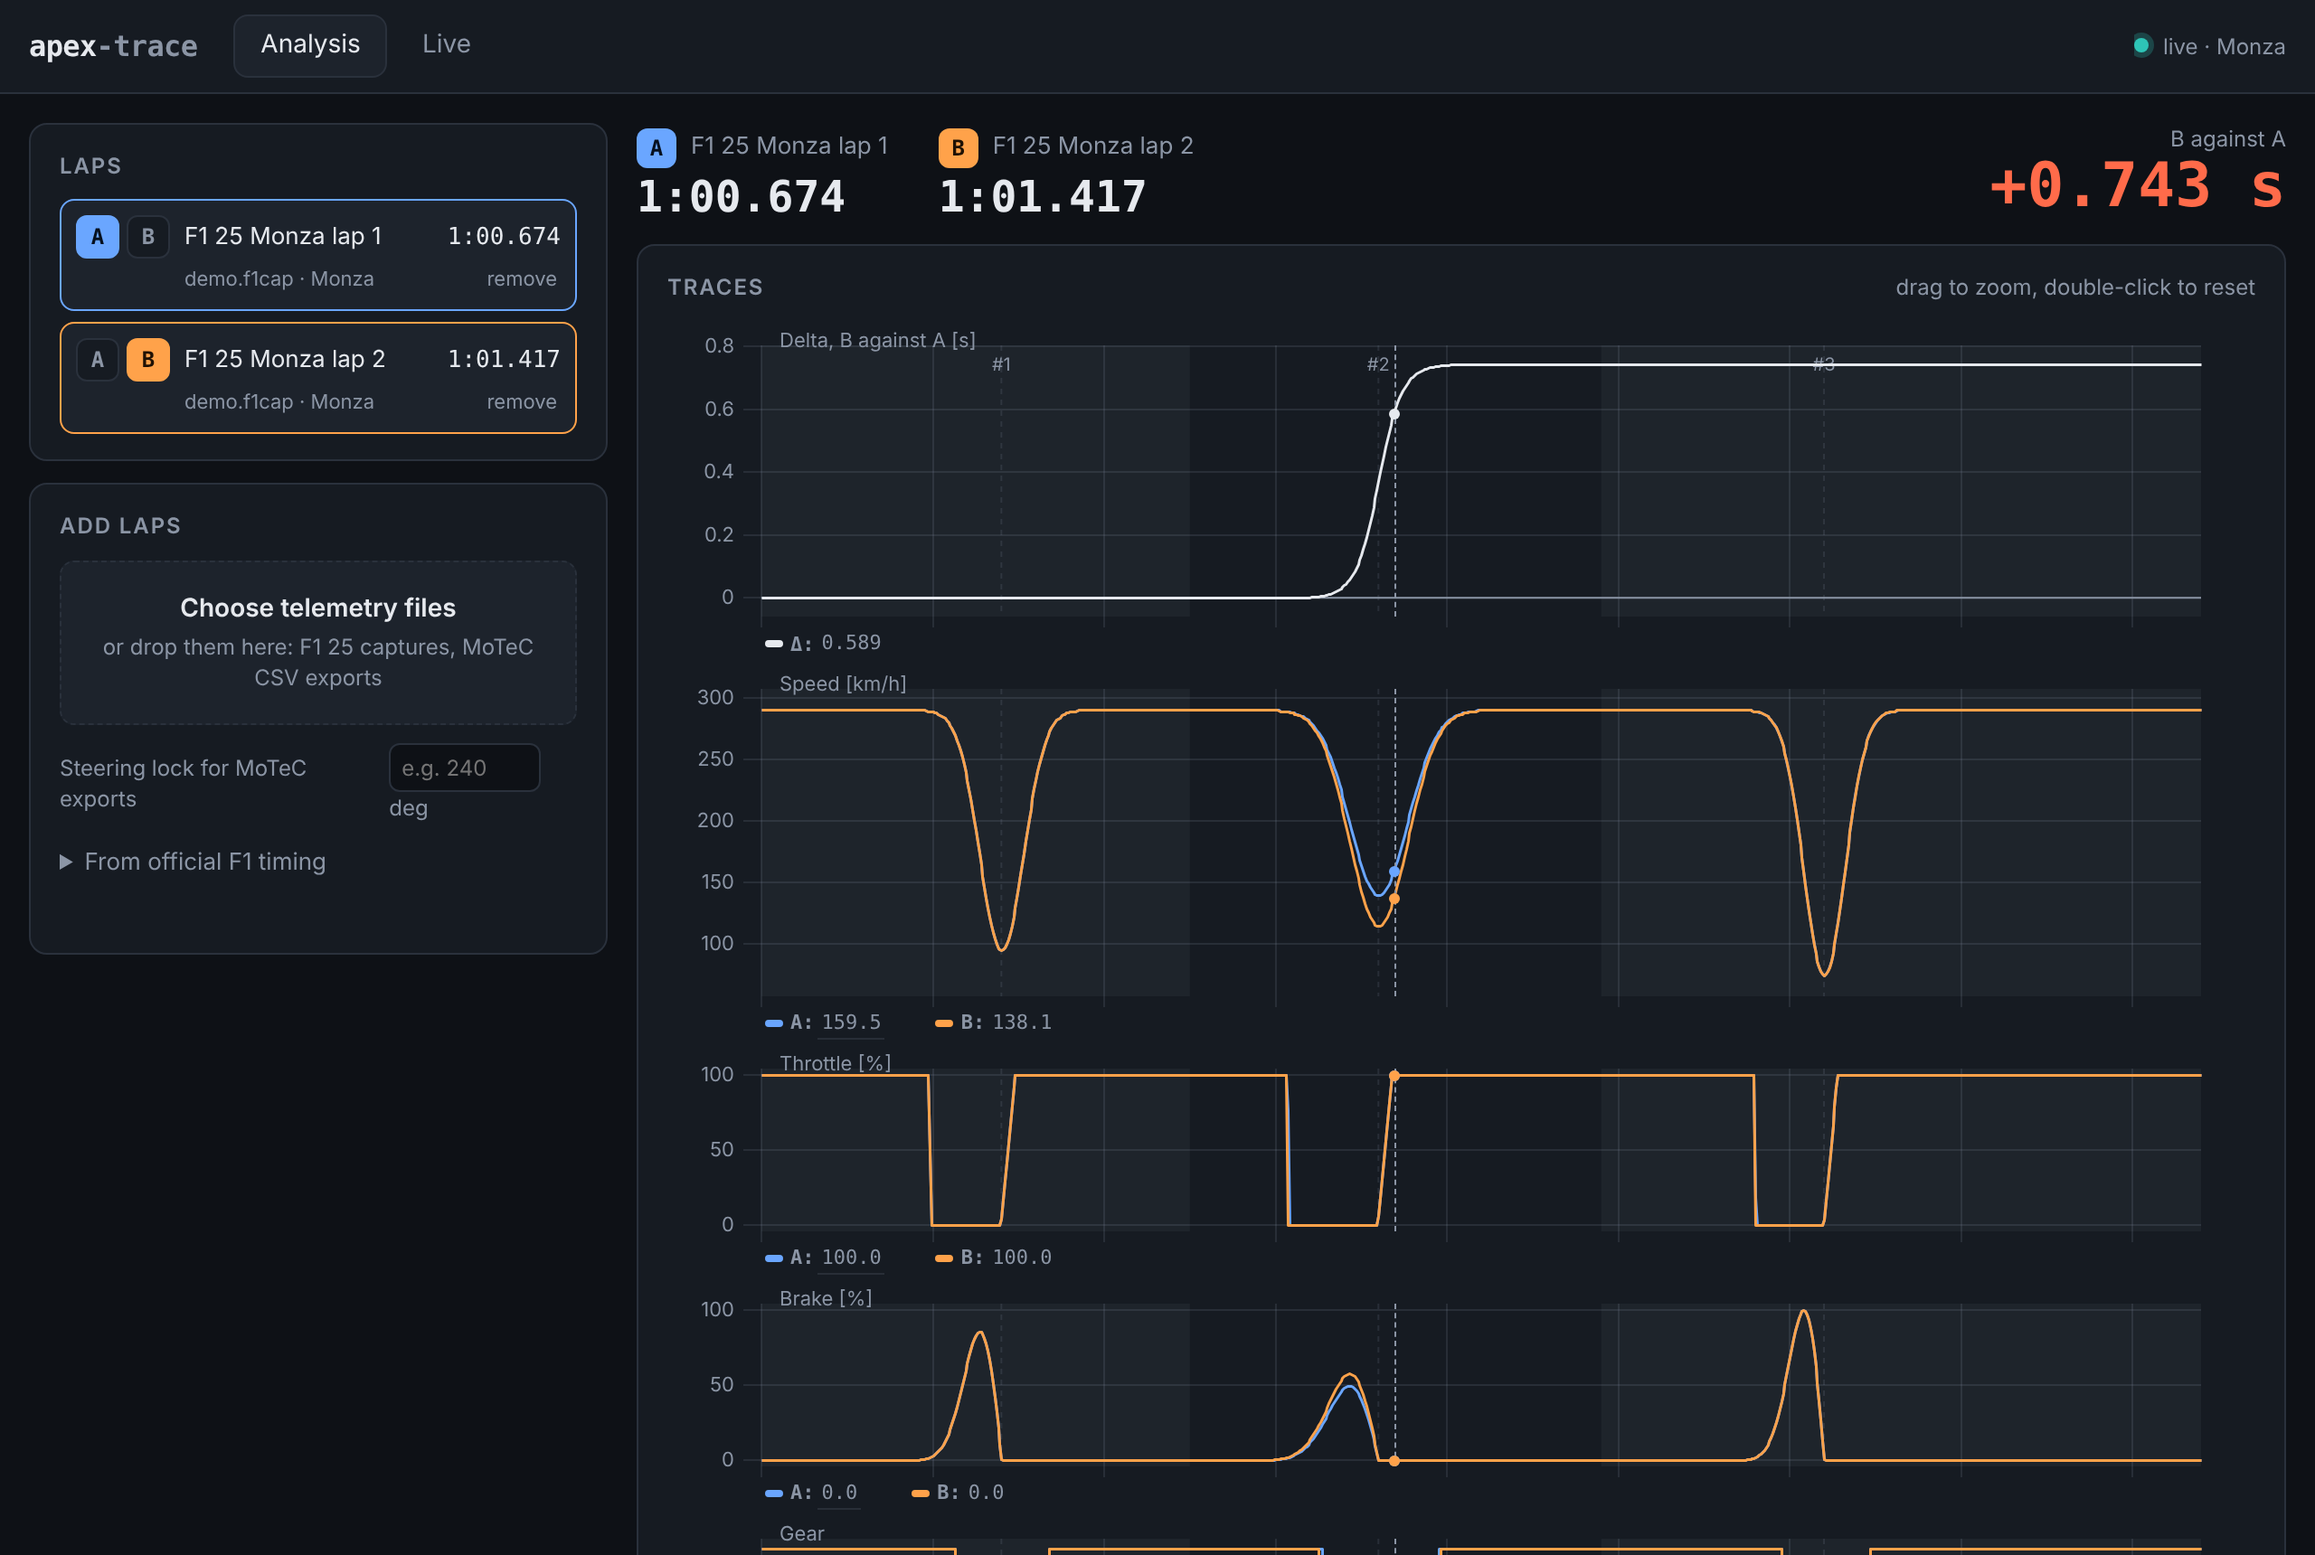
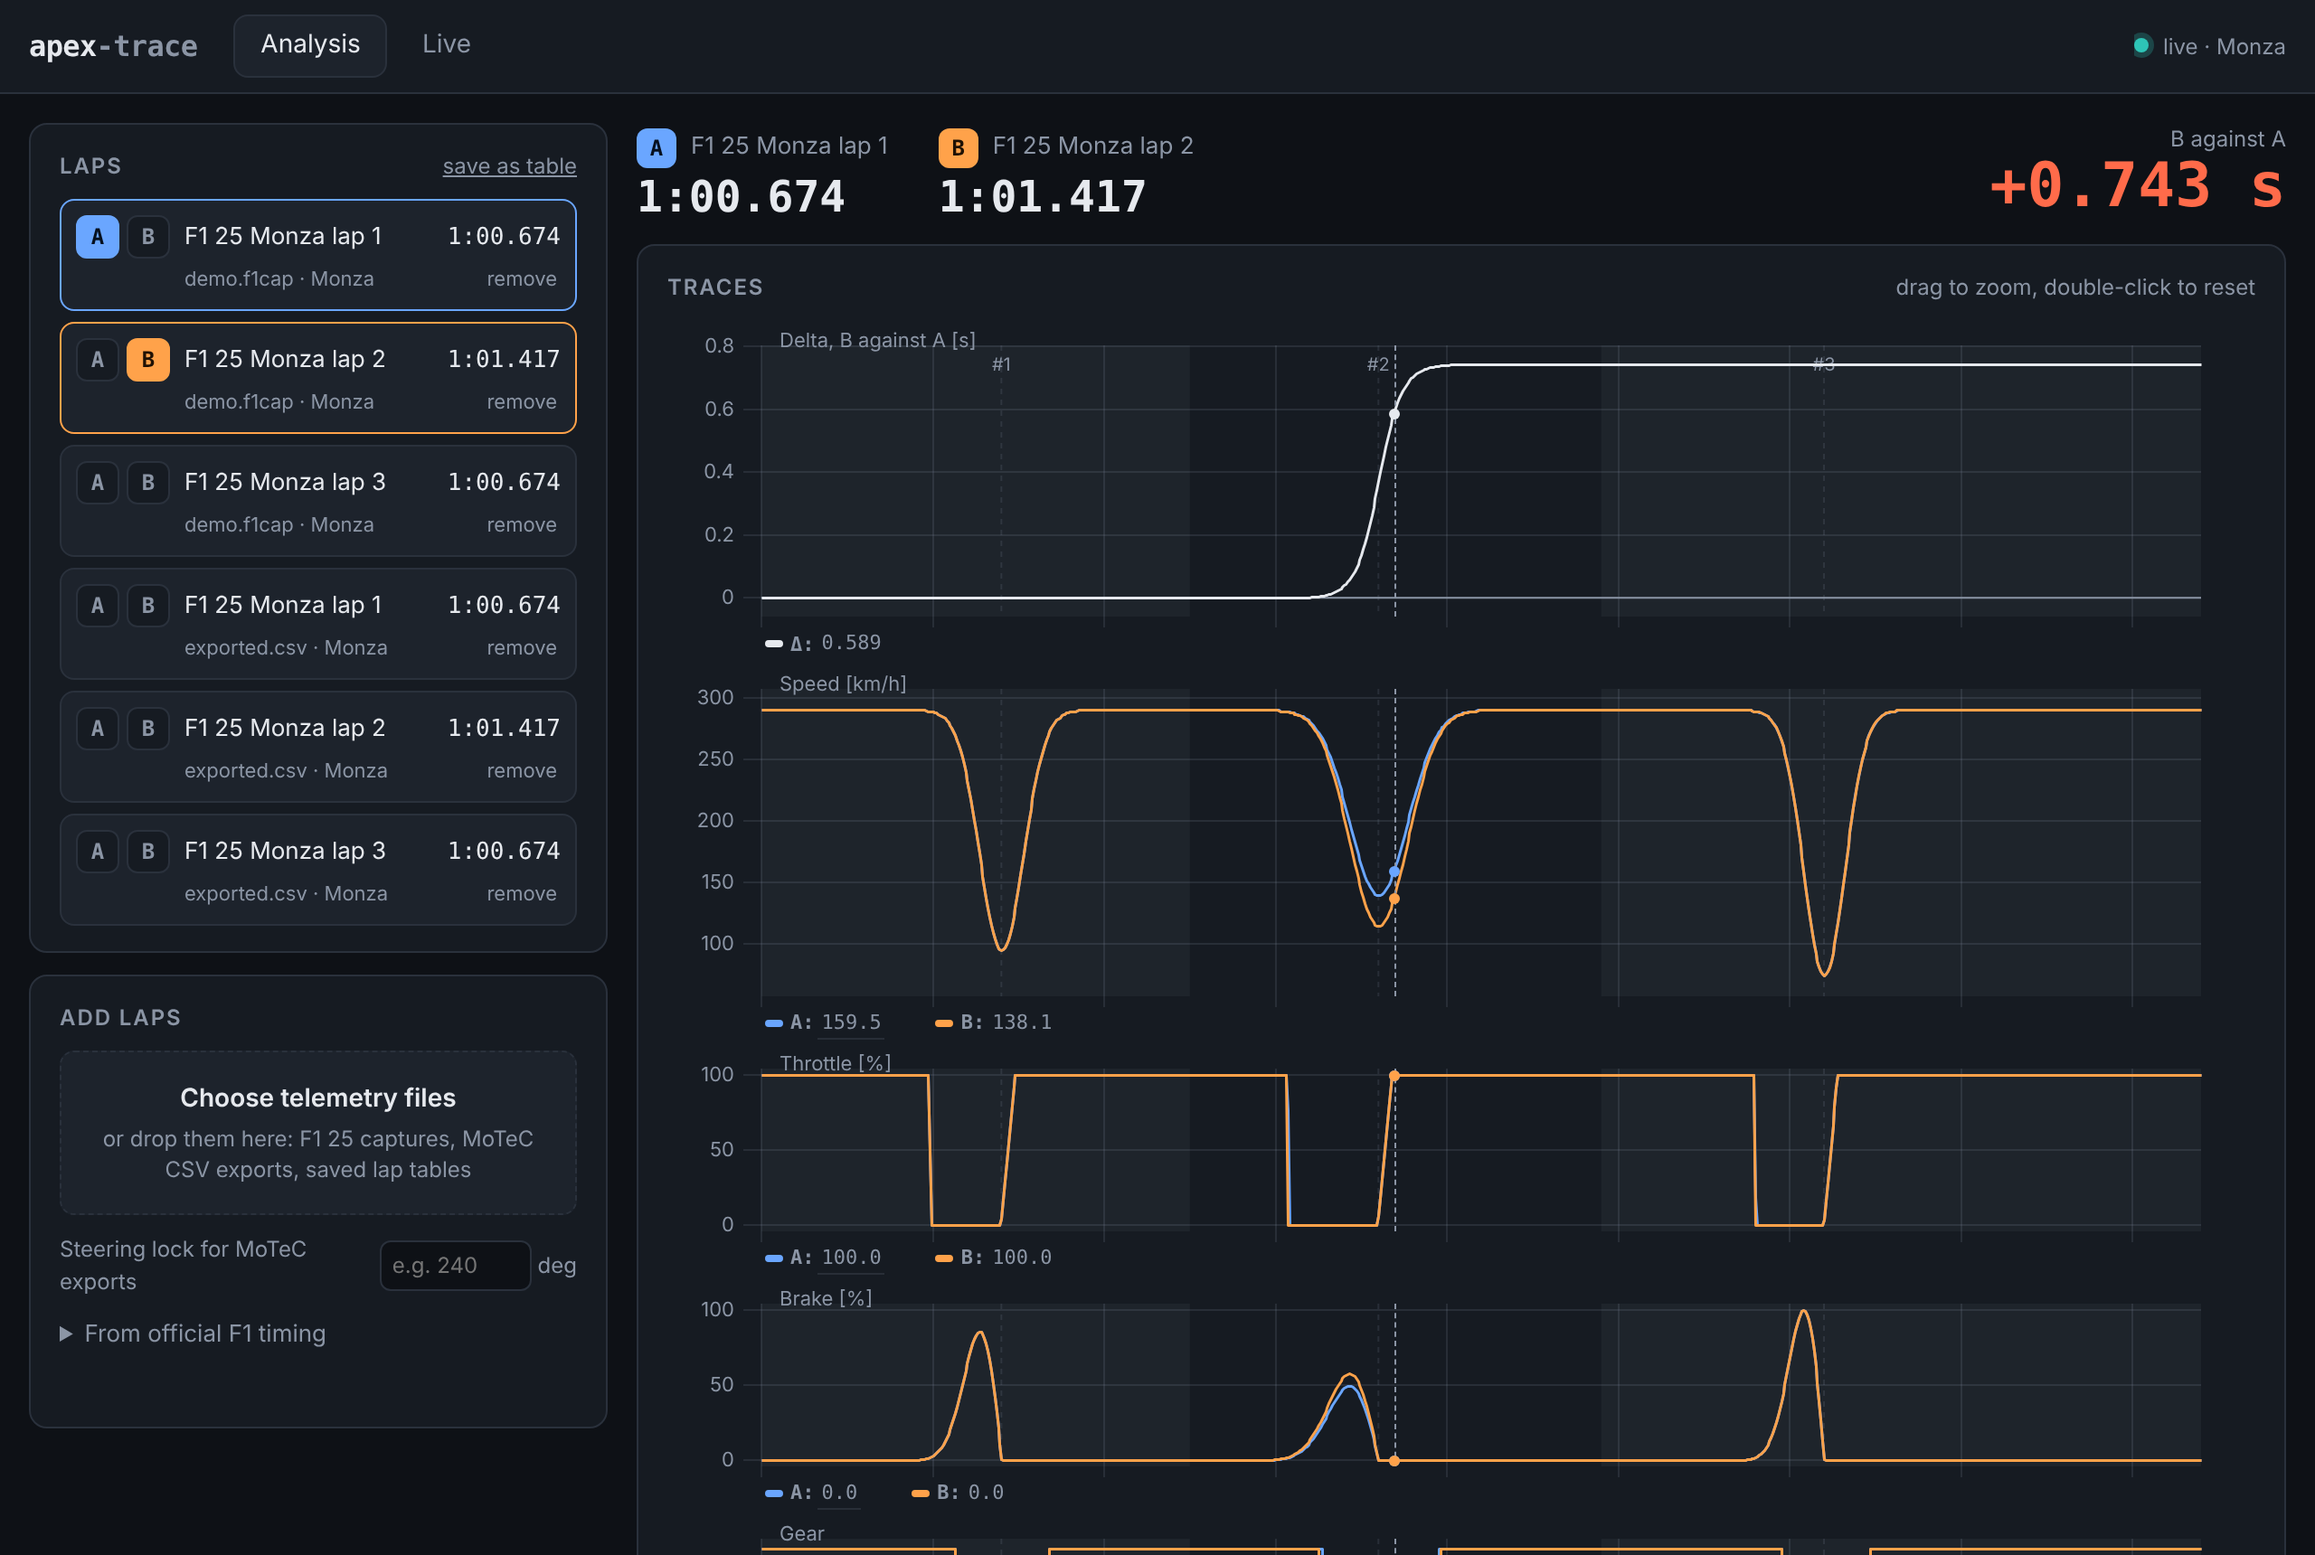
README: lap tables, new commands and derived accelerations

diff --git a/README.md b/README.md
@@ -75,7 +75,7 @@ first as possible.
 | Source | Kind of source | Loader | Engine lines changed |
 | --- | --- | ---: | ---: |
 | F1 timing data (FastF1) | archive behind an API | 132 lines | (written alongside) |
-| F1 25 | live binary UDP stream | 919 lines | 0 |
+| F1 25 | live binary UDP stream | 965 lines | 0 |
 | MoTeC i2 CSV (Assetto Corsa, real loggers) | text file exported by hand | 424 lines | 0 |
 
 The loaders did not get cheaper in a straight line, and the table is
@@ -120,6 +120,20 @@ corner apex_a_kmh apex_b_kmh brake_m  apex_m power_m coast_a_m coast_b_m entry_s
 The delta engine recovers the lap time difference exactly and puts all
 of it in corner #2, the only place the two laps differ.
 
+Laps can be kept two ways. The raw recording is the record of a session:
+it replays as if live and can always be decoded again. Once decoded,
+laps from any source save to one plain table (CSV, the same file
+whichever loader made them) that reloads without decoding and opens in
+a spreadsheet:
+
+```bash
+uv run apextrace record monza.f1cap                  # raw UDP, while driving
+uv run apextrace extract monza.f1cap -o monza.csv    # canonical laps, as a table
+```
+
+`examples/cross_source.py` puts a sim lap against the real pole lap of
+the same circuit, the comparison the whole design exists to allow.
+
 What the sims add that F1 timing data does not have: an analogue brake
 trace instead of a near on/off signal, and a steering channel. What
 they lack: official corner marks, which are reference data about a real
@@ -139,16 +153,21 @@ uv run apextrace serve --replay monza.f1cap   # relive a recorded session
 uv run apextrace serve --no-live a.f1cap b.csv --steering-lock 240
 ```
 
+`serve` is the only command that needs the app extra; `record` and
+`extract` run on the engine alone.
+
 ![Analysis view: delta, channel overlays, corner segments](docs/app_analysis.png)
 
 **Analysis.** Laps from any source sit in one list: drop in F1 25
-captures or MoTeC exports, or download a lap from F1 timing. Pick a
+captures, MoTeC exports or saved lap tables, or download a lap from F1
+timing. Pick a
 reference lap A and a lap B and the engine's results are laid out on a
 shared distance axis: delta, channel overlays with a synced cursor and
 zoom, a track map coloured by where the time goes, the corner table,
-and the behaviour table. Laps of different circuits are refused, and
-laps from different sources are compared with a note that the result
-is qualitative.
+and the behaviour table. The session's laps save as one table from the
+lap list. Laps of different circuits are refused, and laps from
+different sources are compared with a note that the result is
+qualitative.
 
 ![Live view: delta to reference, trend, predicted lap](docs/app_live.png)
 
@@ -202,6 +221,39 @@ depend on how a source normalises its steering channel. The table above
 is from the synthetic session, whose pedal traces are fillers; it shows
 the output, not driving.
 
+### Accelerations without an accelerometer
+
+A car's planar motion is described by how fast it goes and where, so
+the accelerations are derived from channels every lap already has:
+longitudinal as the rate of change of speed, lateral as speed squared
+times the curvature of the driven line (`gforce.py`). That makes them
+available for any source with a position channel, F1 timing data
+included, on a single definition, and leaves the canonical schema
+alone.
+
+```
+corner  brake_g  accel_g  lat_g  combined_g  trail_g_m  power_g_m
+    #1     2.78     2.80   0.99        2.85     100.00      95.00
+    #2     1.81     1.72   0.99        1.90     140.00     140.00
+    #3     3.11     3.15   0.99        3.18      95.00      95.00
+```
+
+`trail_g_m` and `power_g_m` are the vehicle-dynamics reading of a
+corner's phases: metres spent slowing and turning at once, and metres
+spent turning and accelerating at once. The first is trail braking seen
+from the car rather than from the pedal, which is the only way to see
+it on F1 timing data, where the brake channel is on/off and there is no
+steering. `examples/gg_diagram.py` plots the two accelerations against
+each other.
+
+These are estimates, and the cost is differentiation: speed arrives in
+whole km/h and position is noisy, and a derivative amplifies both. The
+derivatives are taken with a Savitzky-Golay filter whose two windows
+(50 m for speed, 100 m for position) are parameters in metres. A window
+wider than a corner flattens its peak, so a figure quoted from here
+should say which windows it was computed with. The table is again from
+the synthetic session, which is driven round a circle.
+
 ## Stack
 
 Python 3.12+ · pandas · NumPy · SciPy · matplotlib · FastF1 · managed with
@@ -223,6 +275,7 @@ uv run python examples/track_map.py          # map coloured by speed
 uv run python examples/validate_alignment.py # alignment vs sector times
 uv run python examples/f1_25_demo.py         # F1 25 path, no game needed
 uv run python examples/behaviour_report.py   # input heuristics, same session
+uv run python examples/gg_diagram.py         # derived accelerations, g-g plot
 uv run pytest                                # synthetic test suite, no network
 ```
 
@@ -234,6 +287,7 @@ near-instant. With the game or an export to hand:
 uv run python examples/f1_25_record.py monza.f1cap     # while driving F1 25
 uv run python examples/f1_25_analyse.py monza.f1cap    # afterwards
 uv run python examples/motec_compare.py outing.csv --steering-lock 240
+uv run python examples/cross_source.py monza.f1cap     # sim lap vs real pole
 ```
 
 To see the app with no game: `uv run python examples/f1_25_demo.py
@@ -244,15 +298,20 @@ Loading laps in your own code, one line per source, same `Lap` out:
 
 ```python
 from apextrace.loaders.fastf1_loader import load_fastf1_lap
-from apextrace.loaders.f1_25 import load_f1_25_capture
+from apextrace.loaders.f1_25 import load_f1_25_capture, load_f1_25_lap
 from apextrace.loaders.motec_csv import load_motec_csv
+from apextrace.storage import load_laps, save_laps
 
 lap = load_fastf1_lap(2024, "Italian Grand Prix", "Q", "NOR")
-laps, skipped = load_f1_25_capture("monza.f1cap")        # skipped says why
+lap = load_f1_25_lap("monza.f1cap")                      # fastest valid lap
+laps, skipped = load_f1_25_capture("monza.f1cap")        # all, skipped says why
 laps, notes = load_motec_csv("outing.csv", steering_lock=240)
 
 lap.data.head()   # canonical channels on a uniform 5 m distance grid
 lap.lap_time      # seconds
+
+save_laps(laps, "session.csv")    # canonical laps as a table
+laps = load_laps("session.csv")   # and back, bit for bit
 ```
 
 ## Roadmap
@@ -264,7 +323,7 @@ lap.lap_time      # seconds
 - [x] **M3.5**: automated tests (pytest) + CI
 - [x] **M4**: second loader (F1 25 via UDP) through the same, untouched engine
 - [x] **M5**: unified app: post-session analysis + live delta while driving
-- [x] **M6**: driving-behaviour heuristics from sim channels (exploratory)
+- [x] **M6**: driving-behaviour heuristics from sim channels and derived accelerations (exploratory)
 - [x] **M7**: third loader (MoTeC CSV: Assetto Corsa and real loggers), marginal cost measured
 
 ## Honest limits
@@ -284,6 +343,12 @@ by, which is metres, so hundredths of a second.
 The behaviour metrics are measured on the distance grid, so no length
 is finer than one grid step (5 m by default). Load laps with a finer
 `step` for input analysis.
+
+The derived accelerations assume planar motion, so elevation and
+banking are ignored, and the sign of the lateral one follows the
+handedness of each source's map: compare magnitudes across sources,
+signs only within one. Their smoothing windows were chosen from the
+noise the sources have, not tuned on real laps.
 
 ## What is left before 1.0
 
@@ -305,4 +370,7 @@ tests that matter, and 1.0 is the version after they pass:
   laps whose times match the game's own;
 - a MoTeC i2 export of an Assetto Corsa outing loads with the channel
   names it actually uses (the alias table is the likeliest thing to
-  need a line added) and its lap times match i2's.
+  need a line added) and its lap times match i2's;
+- the derived accelerations of a real F1 lap land where an F1 car is
+  known to be (around 5 g under braking, 4 to 6 g in fast corners) with
+  the default windows, or the defaults move.
